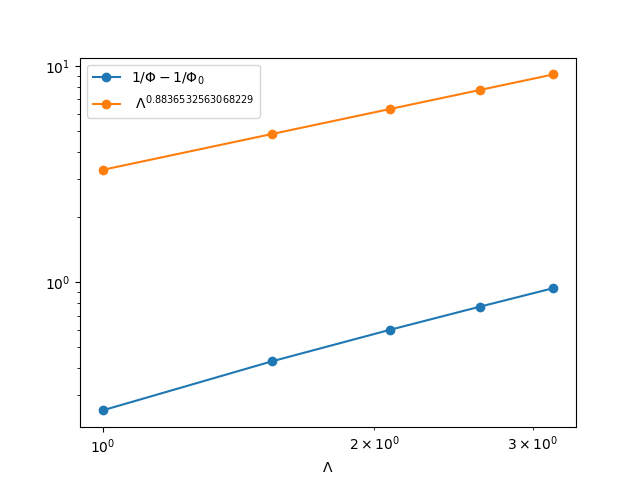
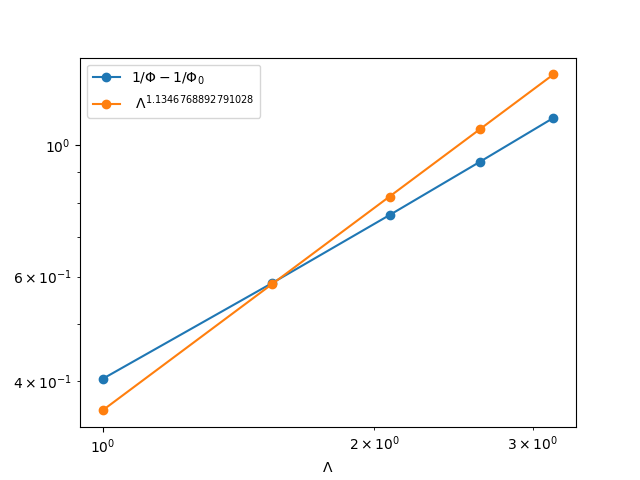
update

diff --git a/Ex1_square_top_snowflake/main_flux.py b/Ex1_square_top_snowflake/main_flux.py
@@ -26,6 +26,20 @@ D = 1
 # Test and trial functions
 u = TrialFunction(V)
 v = TestFunction(V)
+
+# get flux Phi0 at lambda = 0
+Lambda=10**(-7)
+a = Constant(D)*dot(grad(u), grad(v))*dx++Constant(D)/Constant(Lambda)*u*v*ds(4)
+L = Constant(0)*v*dx
+# list of boundary  ids that corresponds to the exterior boundary of the domain
+boundary_ids = (2) # 1: right; 2: bottom; 3:left; 4: top
+bc1= DirichletBC(V, 1, boundary_ids)
+uh = Function(V)
+solve(a == L, uh, bcs=[bc1], solver_parameters={'ksp_type': 'cg', 'pc_type': 'hypre','pc_hypre':'boomeramg'})
+Phi0=assemble(Constant(D)/Constant(Lambda)*uh*ds(4))
+print("phi0 is", Phi0)
+
+# calculate flux for various Lambda 
 Phi=[]
 cc=[]
 import numpy as np
@@ -43,12 +57,11 @@ for Lambda in LL:
   PETSc.Sys.Print("---Result with Lambda: %s  ---" % Lambda) 
   PETSc.Sys.Print("flux:",Phi_temp)
   PETSc.Sys.Print("flux computed by robin:",Phi_temp2)
-  Phi.append(Phi_temp)
+  Phi.append(Phi_temp2)
   cc_temp=D*Lp/Lambda
   PETSc.Sys.Print("DL_p/Lambda:", cc_temp)
   cc.append(cc_temp)
 
-Phi0=Phi[0]
 fig, axes = plt.subplots()
 phi_2=[]
 for i in range(len(Phi)):
@@ -58,8 +71,9 @@ LL_log=np.log(LL)
 res = stats.linregress(phi_2_log, LL_log)
 c=exp(res.intercept)
 alpha=res.slope
+print("slope ", alpha, "coefficients ",c)
 plt.loglog(LL, phi_2,marker='o')
-plt.loglog(LL,c*(LL)**alpha,marker='o')
+plt.loglog(LL,(LL)**alpha/(LL[0]**alpha)*(phi_2[0]**alpha),marker='o')
 plt.legend(['$1/\Phi-1/\Phi_0$', '$~\Lambda^{{%s}}$' % (alpha)])
 plt.xlabel('$\Lambda$')
 plt.savefig(f"figures/Phi_Lam_{nn}.png")
@@ -90,7 +104,7 @@ for Lambda in LL:
   PETSc.Sys.Print("---Result with Lambda: %s  ---" % Lambda) 
   PETSc.Sys.Print("flux:",Phi_temp)
   PETSc.Sys.Print("flux computed by robin:",Phi_temp2)
-  Phi.append(Phi_temp)
+  Phi.append(Phi_temp2)
   cc_temp=D*Lp/Lambda
   PETSc.Sys.Print("DL_p/Lambda:", cc_temp)
   cc.append(cc_temp)
@@ -104,8 +118,9 @@ LL_log=np.log(LL)
 res = stats.linregress(phi_2_log, LL_log)
 c=exp(res.intercept)
 alpha=res.slope
+print("slope ", alpha, "coefficients ",c)
 plt.loglog(LL, phi_2,marker='o')
-plt.loglog(LL,c*(LL)**alpha,marker='o')
+plt.loglog(LL,(LL)**alpha/(LL[0]**alpha)*(phi_2[0]**alpha),marker='o')
 plt.legend(['$1/\Phi-1/\Phi_0$', '$~\Lambda^{{%s}}$' % (alpha)])
 plt.xlabel('$\Lambda$')
 plt.savefig(f"figures/Phi_Lam_{nn}_R1.png")
@@ -135,7 +150,7 @@ for Lambda in LL:
   PETSc.Sys.Print("---Result with Lambda: %s  ---" % Lambda) 
   PETSc.Sys.Print("flux:",Phi_temp)
   PETSc.Sys.Print("flux computed by robin:",Phi_temp2)
-  Phi.append(Phi_temp)
+  Phi.append(Phi_temp2)
   cc_temp=D*Lp/Lambda
   PETSc.Sys.Print("DL_p/Lambda:", cc_temp)
   cc.append(cc_temp)
@@ -149,8 +164,9 @@ LL_log=np.log(LL)
 res = stats.linregress(phi_2_log, LL_log)
 c=exp(res.intercept)
 alpha=res.slope
+print("slope ", alpha, "coefficients ",c)
 plt.loglog(LL, phi_2,marker='o')
-plt.loglog(LL,c*(LL)**alpha,marker='o')
+plt.loglog(LL,(LL)**alpha/(LL[0]**alpha)*(phi_2[0]**alpha),marker='o')
 plt.legend(['$1/\Phi-1/\Phi_0$', '$~\Lambda^{{%s}}$' % (alpha)])
 plt.xlabel('$\Lambda$')
 plt.savefig(f"figures/Phi_Lam_R2_{nn}.png")
